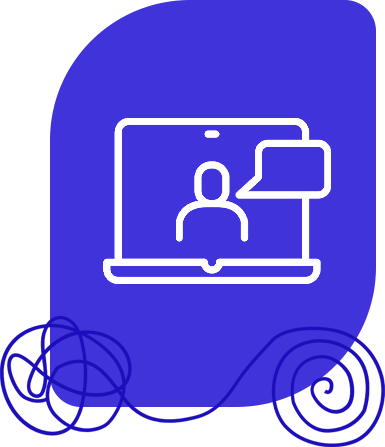
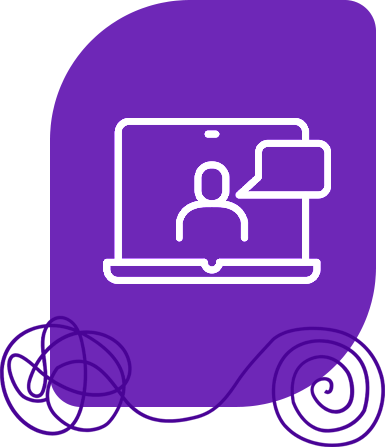
Add files via upload

diff --git a/index.html b/index.html
@@ -6,6 +6,7 @@
   <title>Tailwind Example</title>
   <link rel="stylesheet" href="./css/styles.css">
   <!-- Tailwind CSS via CDN -->
+  
   <script src="https://cdn.tailwindcss.com"></script>
 </head>
 <body class="bg-gray-100">
@@ -25,7 +26,7 @@
         <a href="https://flowbite.com/" class="flex items-center justify-start space-x-3 rtl:space-x-reverse  ml-4">
           <img src="assets/logo-jenae.png" class="h-9 md:absolute md:left-10" alt="Flowbite Logo " />
         </a>
-        <button id="menu-toggle" type="button" class="inline-flex items-center p-2 w-10 h-10 justify-center text-sm text-gray-500 rounded-lg md:hidden hover:bg-gray-100 focus:outline-none focus:ring-2 focus:ring-gray-200 dark:text-gray-400 dark:hover:bg-gray-700 dark:focus:ring-gray-600">
+        <button id="menu-toggle" type="button" class="inline-flex items-center p-2 w-10 h-10 justify-center text-sm text-gray-500 rounded-lg md:hidden hover:bg-gray-100 focus:outline-none focus:ring-2 focus:ring-gray-200 dark:text-gray-400  indigo:focu:indigotext-indigo-900 hover:bg-indigo-200">
           <span class="sr-only">Open main menu</span>
           <svg class="w-5 h-5" aria-hidden="true" xmlns="http://www.w3.org/2000/svg" fill="none" viewBox="0 0 17 14">
             <path stroke="currentColor" stroke-linecap="round" stroke-linejoin="round" stroke-width="2" d="M1 1h15M1 7h15M1 13h15"/>
@@ -34,19 +35,19 @@
         <div id="navbar-default" class="hidden w-full md:block md:w-auto z-50">
           <ul class="font-medium flex flex-col p-4 md:p-0 mt-4 bg-gray-100 z-100  rounded-lg  md:flex-row md:space-x-8 rtl:space-x-reverse md:mt-0 md:border-0 dark:border-gray-700">
             <li>
-                <a href="#Home" class="block py-2 px-3  rounded hover:bg-gray-100 md:hover:bg-transparent md:border-0 md:hover:text-indigo-300 md:p-0 text-blue-950  dark:hover:bg-gray-700 dark:hover:text-blue-950" aria-current="page">Home</a>
+                <a href="#Home" class="block py-2 px-3 nav-link  rounded hover:bg-gray-100 md:hover:bg-transparent md:border-0 md:hover:text-indigo-300 md:p-0 text-indigo-950  hover:text-indigo-900 hover:bg-indigo-200" aria-current="page">Home</a>
               </li>
               <li>
-                <a href="#Sobre" class="block py-2 px-3  rounded hover:bg-gray-100 md:hover:bg-transparent md:border-0 md:hover:text-indigo-300 md:p-0 text-blue-950  dark:hover:bg-gray-700 dark:hover:text-blue-950">Sobre</a>
+                <a href="#Sobre" class="block py-2 px-3  nav-link rounded hover:bg-gray-100 md:hover:bg-transparent md:border-0 md:hover:text-indigo-300 md:p-0 text-indigo-950  hover:text-indigo-900 hover:bg-indigo-200">Sobre</a>
               </li>
               <li>
-                <a href="#Servicos" class="block py-2 px-3  rounded hover:bg-gray-100 md:hover:bg-transparent md:border-0 md:hover:text-indigo-300 md:p-0 text-blue-950  dark:hover:bg-gray-700 dark:hover:text-blue-950">Serviços</a>
+                <a href="#Servicos" class="block py-2 px-3 nav-link  rounded hover:bg-gray-100 md:hover:bg-transparent md:border-0 md:hover:text-indigo-300 md:p-0 text-indigo-950  hover:text-indigo-900 hover:bg-indigo-200">Serviços</a>
               </li>
               <li>
-                <a href="#Online" class="block py-2 px-3  rounded hover:bg-gray-100 md:hover:bg-transparent md:border-0 md:hover:text-indigo-300 md:p-0 text-blue-950  dark:hover:bg-gray-700 dark:hover:text-blue-950">Online</a>
+                <a href="#Online" class="block py-2 px-3 nav-link rounded hover:bg-gray-100 md:hover:bg-transparent md:border-0 md:hover:text-indigo-300 md:p-0 text-indigo-950  hover:text-indigo-900 hover:bg-indigo-200">Online</a>
               </li>
               <li>
-                <a href="#Contato" class="block py-2 px-3  rounded hover:bg-gray-100 md:hover:bg-transparent md:border-0 md:hover:text-indigo-300 md:p-0 text-blue-950  dark:hover:bg-gray-700 dark:hover:text-blue-950">Contato</a>
+                <a href="#Contato" class="block py-2 px-3  nav-link rounded hover:bg-gray-100 md:hover:bg-transparent md:border-0 md:hover:text-indigo-300 md:p-0 text-indigo-950  hover:text-indigo-900 hover:bg-indigo-200">Contato</a>
               </li>
           </ul>
         </div>
@@ -80,13 +81,13 @@
 
 <div class="relative min-h-screen px-4 flex items-center justify-center overflow-x-hidden  ">
   <div class="mt-60 md:mt-0">
-  <div class="absolute top-1/2 left-0 w-screen h-48 bg-indigo-500 transform -translate-y-1/2 rotate-[-3deg] "></div>
-  <div class="absolute top-1/2 left-0 w-screen h-48 bg-indigo-700 transform -translate-y-1/2 rotate-[3deg]"></div>
+  <div class="absolute md:top-1/2 top-1/2 left-0 w-screen h-48 bg-indigo-500 transform -translate-y-1/2  "></div>
+  <div class="absolute md:top-2/3 top-1/2 left-0 w-screen h-40 md:h-48 bg-indigo-700 transform -translate-y-1/2 "></div>
 
 
-  <div class="relative grid grid-cols-1 md:grid-cols-3 gap-10 mt-[-80px] mt-20">
+  <div class="card-container relative grid grid-cols-1 md:grid-cols-3 gap-10 mt-[-80px] mt-20">
       <!-- Card 1 -->
-      <div class="relative border-2 border-blue-500 justify-center rounded-xl p-6 text-center flex flex-col py-20 max-h-[400px] max-w-[400px] bg-white shadow-lg">
+      <div class="card relative border-2 border-blue-500 justify-center rounded-xl p-6 text-center flex flex-col py-20 max-h-[400px] max-w-[400px] bg-white shadow-lg">
         <div class=" mx-auto mb-5 absolute top-[-30px] left-1/2 transform -translate-x-1/2">
           <div class="bg-indigo-500 w-24 h-24 rounded-full items-center flex justify-center">
             <img src="assets/sad.png" alt="" class="w-12">
@@ -101,7 +102,7 @@
     </div>
 
       <!-- Card 2 -->
-      <div class="relative border-2 border-blue-500 justify-center rounded-xl p-6 text-center flex flex-col py-20 max-h-[400px] max-w-[400px] bg-white shadow-lg">
+      <div class="card relative border-2 border-blue-500 justify-center rounded-xl p-6 text-center flex flex-col py-20 max-h-[400px] max-w-[400px] bg-white shadow-lg">
           <div class=" mx-auto mb-5 absolute top-[-30px] left-1/2 transform -translate-x-1/2">
             <div class="bg-indigo-500 w-24 h-24 rounded-full items-center flex justify-center">
               <img src="assets/sad.png" alt="" class="w-12">
@@ -116,7 +117,7 @@
       </div>
 
       <!-- Card 3 -->
-      <div class="relative border-2 border-blue-500 justify-center rounded-xl p-6 text-center flex flex-col py-20 max-h-[400px] max-w-[400px] bg-white shadow-lg">
+      <div class="card relative border-2 border-blue-500 justify-center rounded-xl p-6 text-center flex flex-col py-20 max-h-[400px] max-w-[400px] bg-white shadow-lg">
         <div class=" mx-auto mb-5 absolute top-[-30px] left-1/2 transform -translate-x-1/2">
           <div class="bg-indigo-500 w-24 h-24 rounded-full items-center flex justify-center">
             <img src="assets/sad.png" alt="" class="w-12">
@@ -251,80 +252,9 @@
   </div>
 </div>
 
-<div class="min-h-screen px-4 flex justify-center items-center">
-  <div class="flex flex-col items-center w-full -mt-36 md:mt-0">
-    <!-- Título e descrição no topo -->
-    <div class="text-center ">
-      <h1 class="text-indigo-500 text-4xl md:text-4xl font-bold mb-4" id="agendamento">
-        Conheça mais
-      </h1>
-      <p class="text-gray-500 px-4">Conheça um pouco mais sobre o nosso espaço</p>
-    </div>
 
 
-
-    <div class="w-full ">
-      <div class="relative w-full max-w-7xl mx-auto mt-14">
-        <!-- Carrossel -->
-        <div class="flex overflow-x-hidden">
-          <div class="flex transition-transform duration-500 ease-in-out" id="carousel">
-            <!-- Card 1 -->
-            <div class="flex-shrink-0 w-80 h-80 bg-indigo-950 text-white rounded-lg shadow-lg m-4 p-4">
-              <h3 class="text-xl font-bold">Card 1</h3>
-              <p>Conteúdo do card 1.</p>
-            </div>
-            <!-- Card 2 -->
-            <div class="flex-shrink-0 w-80 h-80 bg-indigo-900 text-white rounded-lg shadow-lg m-4 p-4">
-              <h3 class="text-xl font-bold">Card 2</h3>
-              <p>Conteúdo do card 2.</p>
-            </div>
-            <!-- Card 3 -->
-            <div class="flex-shrink-0 w-80 h-80 bg-indigo-800 text-white rounded-lg shadow-lg m-4 p-4">
-              <h3 class="text-xl font-bold">Card 3</h3>
-              <p>Conteúdo do card 3.</p>
-            </div>
-            <!-- Card 4 -->
-            <div class="flex-shrink-0 w-80 h-80 bg-indigo-700 text-white rounded-lg shadow-lg m-4 p-4">
-              <h3 class="text-xl font-bold">Card 4</h3>
-              <p>Conteúdo do card 4.</p>
-            </div>
-            <!-- Card 5 -->
-            <div class="flex-shrink-0 w-80 h-80 bg-indigo-600 text-white rounded-lg shadow-lg m-4 p-4">
-              <h3 class="text-xl font-bold">Card 5</h3>
-              <p>Conteúdo do card 5.</p>
-            </div>
-            <!-- Card 6 -->
-            <div class="flex-shrink-0 w-80 h-80 bg-indigo-500 text-white rounded-lg shadow-lg m-4 p-4">
-              <h3 class="text-xl font-bold">Card 6</h3>
-              <p>Conteúdo do card 6.</p>
-            </div>
-            <!-- Card 7 -->
-            <div class="flex-shrink-0 w-80 h-80 bg-indigo-400 text-white rounded-lg shadow-lg m-4 p-4">
-              <h3 class="text-xl font-bold">Card 7</h3>
-              <p>Conteúdo do card 7.</p>
-            </div>
-            <!-- Card 8 -->
-            <div class="flex-shrink-0 w-80 h-80 bg-indigo-300 text-white rounded-lg shadow-lg m-4 p-4">
-              <h3 class="text-xl font-bold">Card 8</h3>
-              <p>Conteúdo do card 8.</p>
-            </div>
-          </div>
-        </div>
-      
-        <button class="absolute top-1/2 left-0 transform -translate-y-1/2 bg-gray-800 text-white py-4 px-5 rounded-full" id="prevBtn">
-          <span class="material-icons"><</span>
-        </button>
-        <button class="absolute top-1/2 right-0 transform -translate-y-1/2 bg-gray-800 text-white  py-4 px-5  rounded-full" id="nextBtn">
-          <span class="material-icons">></span>
-        </button>
-      </div>
-      
-    </div>
-
-  </div>
-</div>
-
-<div id="Contato" class="min-h-screen pattern bg-indigo-600 -mt-32  gap-8 md:gap-32  w-full flex flex-col md:flex-row justify-center items-center md:mt-10">
+<div id="Contato" class="min-h-screen pattern bg-indigo-600 mt-5  gap-8 md:gap-32  w-full flex flex-col md:flex-row justify-center items-center md:mt-10">
   <img src="assets/forms-image.png" class="w-36 md:w-1/5 " alt="">
       
   <div class="md:w-1/3 w-2/3">
@@ -336,35 +266,67 @@
         </div>
 
     
-    <label for="input-group-1" class="block mb-3 text-sm font-medium text-gray-900 dark:text-white"></label>
-    <div class="relative md:mb-8 mb-6">
-      <div class="absolute inset-y-0 start-0 flex items-center ps-5 pointer-events-none">
-        <img src="assets/user-white.png" class="w-6" alt="">
-      </div>
-      <input type="text" id="input-group-1" class="p-4 bg-indigo-600 border border-white text-gray-900 text-sm rounded-2xl focus:ring-blue-500 focus:border-blue-500 block w-full ps-12 pl-14 dark:border-yellow-300 dark:placeholder-gray-400 dark:text-white dark:focus:ring-blue-500 dark:focus:border-blue-500" placeholder="Nome">
-    </div>
-  
-    <label for="input-group-2" class="block mb-3 text-sm font-medium text-gray-900 dark:text-white"></label>
-    <div class="relative md:mb-8 mb-6">
-      <div class="absolute inset-y-0 start-0 flex items-center ps-5 pointer-events-none">
-        <img src="assets/email-white.png" class="w-6" alt="">
-      </div>
-      <input type="email" id="input-group-2" class="p-4 bg-indigo-600 border border-white text-gray-900 text-sm rounded-2xl focus:ring-blue-500 focus:border-blue-500 block w-full ps-12 pl-14 dark:border-yellow-300 dark:placeholder-gray-400 dark:text-white dark:focus:ring-blue-500 dark:focus:border-blue-500" placeholder="SeuEmail@gmail.com">
-    </div>
-
-    <label for="input-group-3" class="block mb-3 text-sm font-medium text-gray-900 dark:text-white"></label>
-    <div class="relative md:mb-8 mb-6">
-      <div class="absolute inset-y-0 start-0 flex items-center ps-5 pointer-events-none">
-        <img src="assets/phone-white.png" class="w-6" alt="">
-      </div>
-      <input type="tel" id="input-group-3" class="p-4 bg-indigo-600 border border-white text-gray-900 text-sm rounded-2xl focus:ring-blue-500 focus:border-blue-500 block w-full ps-12 pl-14 dark:border-yellow-300 dark:placeholder-gray-400 dark:text-white dark:focus:ring-blue-500 dark:focus:border-blue-500" placeholder="(00) 00000-0000" pattern="^\(\d{3}\) \d{3}-\d{4}$">
-    </div>
-
-    <div class="relative mb-8">
-      <button type="submit" class="w-full bg-white p-4 text-black font-bold rounded-2xl hover:bg-indigo-700 hover:text-white focus:ring-4 focus:ring-yellow-300 focus:outline-none">
-        Enviar
-      </button>
-    </div>
+        <form action="https://api.staticforms.xyz/submit" method="POST">
+          <!-- Chave de acesso -->
+          <input type="hidden" name="accessKey" value="c02ec56a-d7cb-420d-9a48-4d88d85160ff">
+        
+          <!-- Campo para redirecionamento opcional após envio -->
+          <input type="hidden" name="redirectTo" value="http://127.0.0.1:5500/JeanePsiqLanding/send.html">
+        
+          <!-- Nome -->
+          <label for="input-group-1" class="block mb-3 text-sm font-medium text-gray-900 dark:text-white"></label>
+          <div class="relative md:mb-8 mb-6">
+            <div class="absolute inset-y-0 start-0 flex items-center ps-5 pointer-events-none">
+              <img src="assets/user-white.png" class="w-6" alt="">
+            </div>
+            <input type="text" name="name" required id="input-group-1" 
+                   class="p-4 bg-indigo-600 border border-white text-gray-900 text-sm rounded-2xl 
+                          focus:ring-blue-500 focus:border-blue-500 block w-full ps-12 pl-14 
+                          dark:border-yellow-300 dark:placeholder-gray-400 dark:text-white 
+                          dark:focus:ring-blue-500 dark:focus:border-blue-500"
+                   placeholder="Nome">
+          </div>
+        
+          <!-- Email -->
+          <label for="input-group-2" class="block mb-3 text-sm font-medium text-gray-900 dark:text-white"></label>
+          <div class="relative md:mb-8 mb-6">
+            <div class="absolute inset-y-0 start-0 flex items-center ps-5 pointer-events-none">
+              <img src="assets/email-white.png" class="w-6" alt="">
+            </div>
+            <input type="email" name="email" required id="input-group-2" 
+                   class="p-4 bg-indigo-600 border border-white text-gray-900 text-sm rounded-2xl 
+                          focus:ring-blue-500 focus:border-blue-500 block w-full ps-12 pl-14 
+                          dark:border-yellow-300 dark:placeholder-gray-400 dark:text-white 
+                          dark:focus:ring-blue-500 dark:focus:border-blue-500"
+                   placeholder="SeuEmail@gmail.com">
+          </div>
+        
+          <!-- Telefone -->
+          <label for="input-group-3" class="block mb-3 text-sm font-medium text-gray-900 dark:text-white"></label>
+          <div class="relative md:mb-8 mb-6">
+            <div class="absolute inset-y-0 start-0 flex items-center ps-5 pointer-events-none">
+              <img src="assets/phone-white.png" class="w-6" alt="">
+            </div>
+            <input type="text" name="phone" required id="input-group-3" 
+                   class="p-4 bg-indigo-600 border border-white text-gray-900 text-sm rounded-2xl 
+                          focus:ring-blue-500 focus:border-blue-500 block w-full ps-12 pl-14 
+                          dark:border-yellow-300 dark:placeholder-gray-400 dark:text-white 
+                          dark:focus:ring-blue-500 dark:focus:border-blue-500"
+                   placeholder="(00) 00000-0000">
+          </div>
+        
+          <!-- Botão -->
+          <div class="relative mb-8">
+            <button type="submit" 
+                    class="w-full bg-white p-4 text-black font-bold rounded-2xl 
+                           hover:bg-indigo-700 hover:text-white focus:ring-4 
+                           focus:ring-yellow-300 focus:outline-none">
+              Enviar
+            </button>
+          </div>
+        </form>
+        
+        
   </div>
 </div>
 

diff --git a/js/script.js b/js/script.js
@@ -1,32 +1,15 @@
-        const carousel = document.getElementById('carousel');
-        const prevBtn = document.getElementById('prevBtn');
-        const nextBtn = document.getElementById('nextBtn');
-      
-        let index = 0;
-        const totalCards = 8; 
-        const cardWidth = 288; 
-      
-       
-        nextBtn.addEventListener('click', () => {
-          if (index < totalCards - 1) {
-            index++;
-            carousel.style.transform = `translateX(-${cardWidth * index + 16 * index}px)`; 
-          }
-        });
-      
-     
-        prevBtn.addEventListener('click', () => {
-          if (index > 0) {
-            index--;
-            carousel.style.transform = `translateX(-${cardWidth * index + 16 * index}px)`; 
-          }
-        });
+const menuToggle = document.getElementById('menu-toggle');
+const navbar = document.getElementById('navbar-default');
+const navLinks = document.querySelectorAll('.nav-link');
 
-        const menuToggle = document.getElementById('menu-toggle');
-  const navbar = document.getElementById('navbar-default');
+// Abre e fecha o menu ao clicar no botão
+menuToggle.addEventListener('click', () => {
+  navbar.classList.toggle('hidden');
+});
 
-
-  menuToggle.addEventListener('click', () => {
-  
-    navbar.classList.toggle('hidden');
+// Fecha o menu ao clicar em qualquer item de navegação
+navLinks.forEach(link => {
+  link.addEventListener('click', () => {
+    navbar.classList.add('hidden');
   });
+});

diff --git a/css/styles.css b/css/styles.css
@@ -43,4 +43,26 @@
   .box-shadow {
     box-shadow: 5px 5px 25px rgba(255, 208, 0, 0.39);
   }
+
+  .bg-indigo-100 { background-color: #f0e6ff !important; }
+  .bg-indigo-200 { background-color: #d1b3ff !important; }
+  .bg-indigo-300 { background-color: #b280ff !important; }
+  .bg-indigo-400 { background-color: #8d4dff !important; }
+  .bg-indigo-500 { background-color: #6a1aff !important; }
+  .bg-indigo-600 { background-color: #350087 !important; }
+  .bg-indigo-700 { background-color: #2e006f !important; }
+  .bg-indigo-800 { background-color: #27005a !important; }
+  .bg-indigo-900 { background-color: #1f0045 !important; }
+  .bg-indigo-950 { background-color: #140031 !important; }
+
+  .text-indigo-100 { color: #f0e6ff !important; }
+.text-indigo-200 { color: #d1b3ff !important; }
+.text-indigo-300 { color: #b280ff !important; }
+.text-indigo-400 { color: #8d4dff !important; }
+.text-indigo-500 { color: #6a1aff !important; }
+.text-indigo-600 { color: #350087 !important; }
+.text-indigo-700 { color: #2e006f !important; }
+.text-indigo-800 { color: #27005a !important; }
+.text-indigo-900 { color: #1f0045 !important; }
+.text-indigo-950 { color: #140031 !important; }
   

diff --git a/send.html b/send.html
@@ -1,0 +1,24 @@
+<!DOCTYPE html>
+<html lang="pt-br">
+<head>
+  <meta charset="UTF-8">
+  <meta name="viewport" content="width=device-width, initial-scale=1">
+  <title>Obrigado!</title>
+  <link rel="stylesheet" href="./css/styles.css">
+  <script src="https://cdn.tailwindcss.com"></script>
+</head>
+<body class="bg-white text-white flex items-center justify-center h-screen">
+
+    <div class="bg-indigo-700 p-10 rounded-2xl shadow-lg max-w-md text-center justify-center flex-col">
+        <img src="assets/sucess-send.png" class="w-20 mx-auto mb-10" alt="">
+        <h1 class="text-4xl font-bold mb-6">Obrigado pelo contato!</h1>
+        <p class="text-lg mb-6 opacity-60">Recebemos suas informações com sucesso. Em breve entraremos em contato.</p>
+        
+        <a href="index.html" class="inline-block px-6 py-3 bg-white text-indigo-700 font-semibold rounded-full hover:bg-indigo-200 hover:text-black transition">
+          Voltar à página inicial
+        </a>
+      </div>
+      
+
+</body>
+</html>
